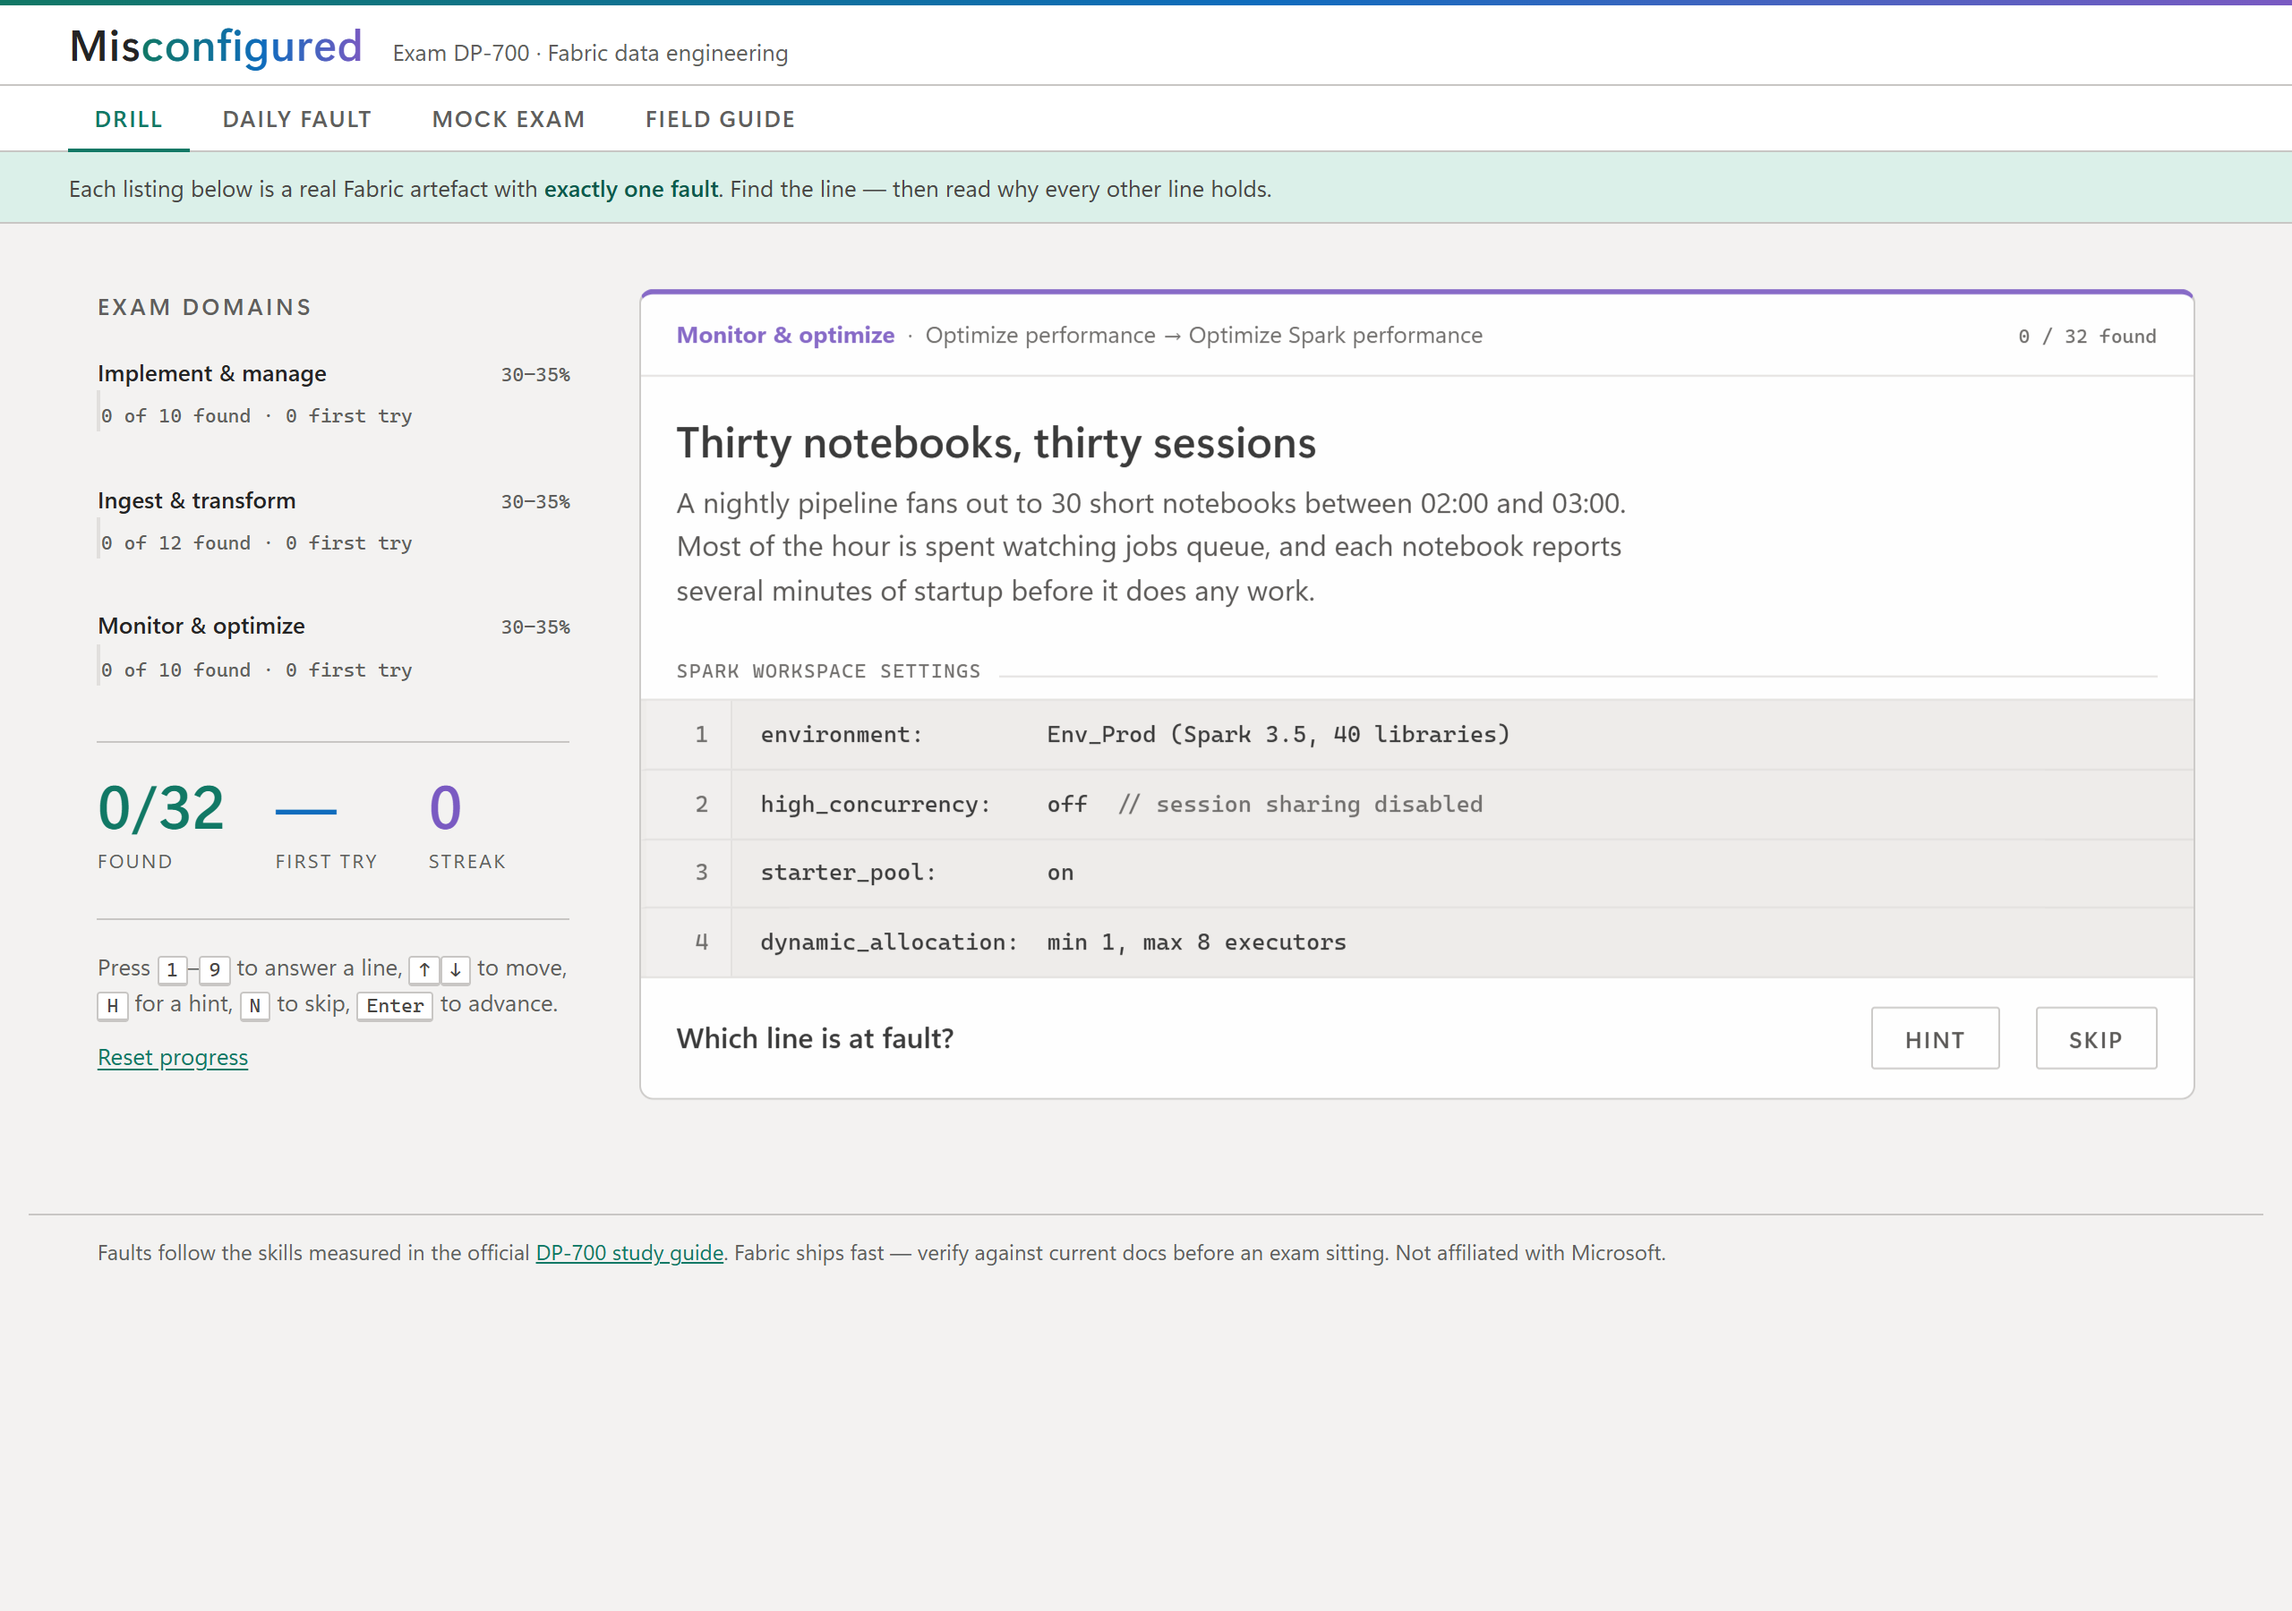
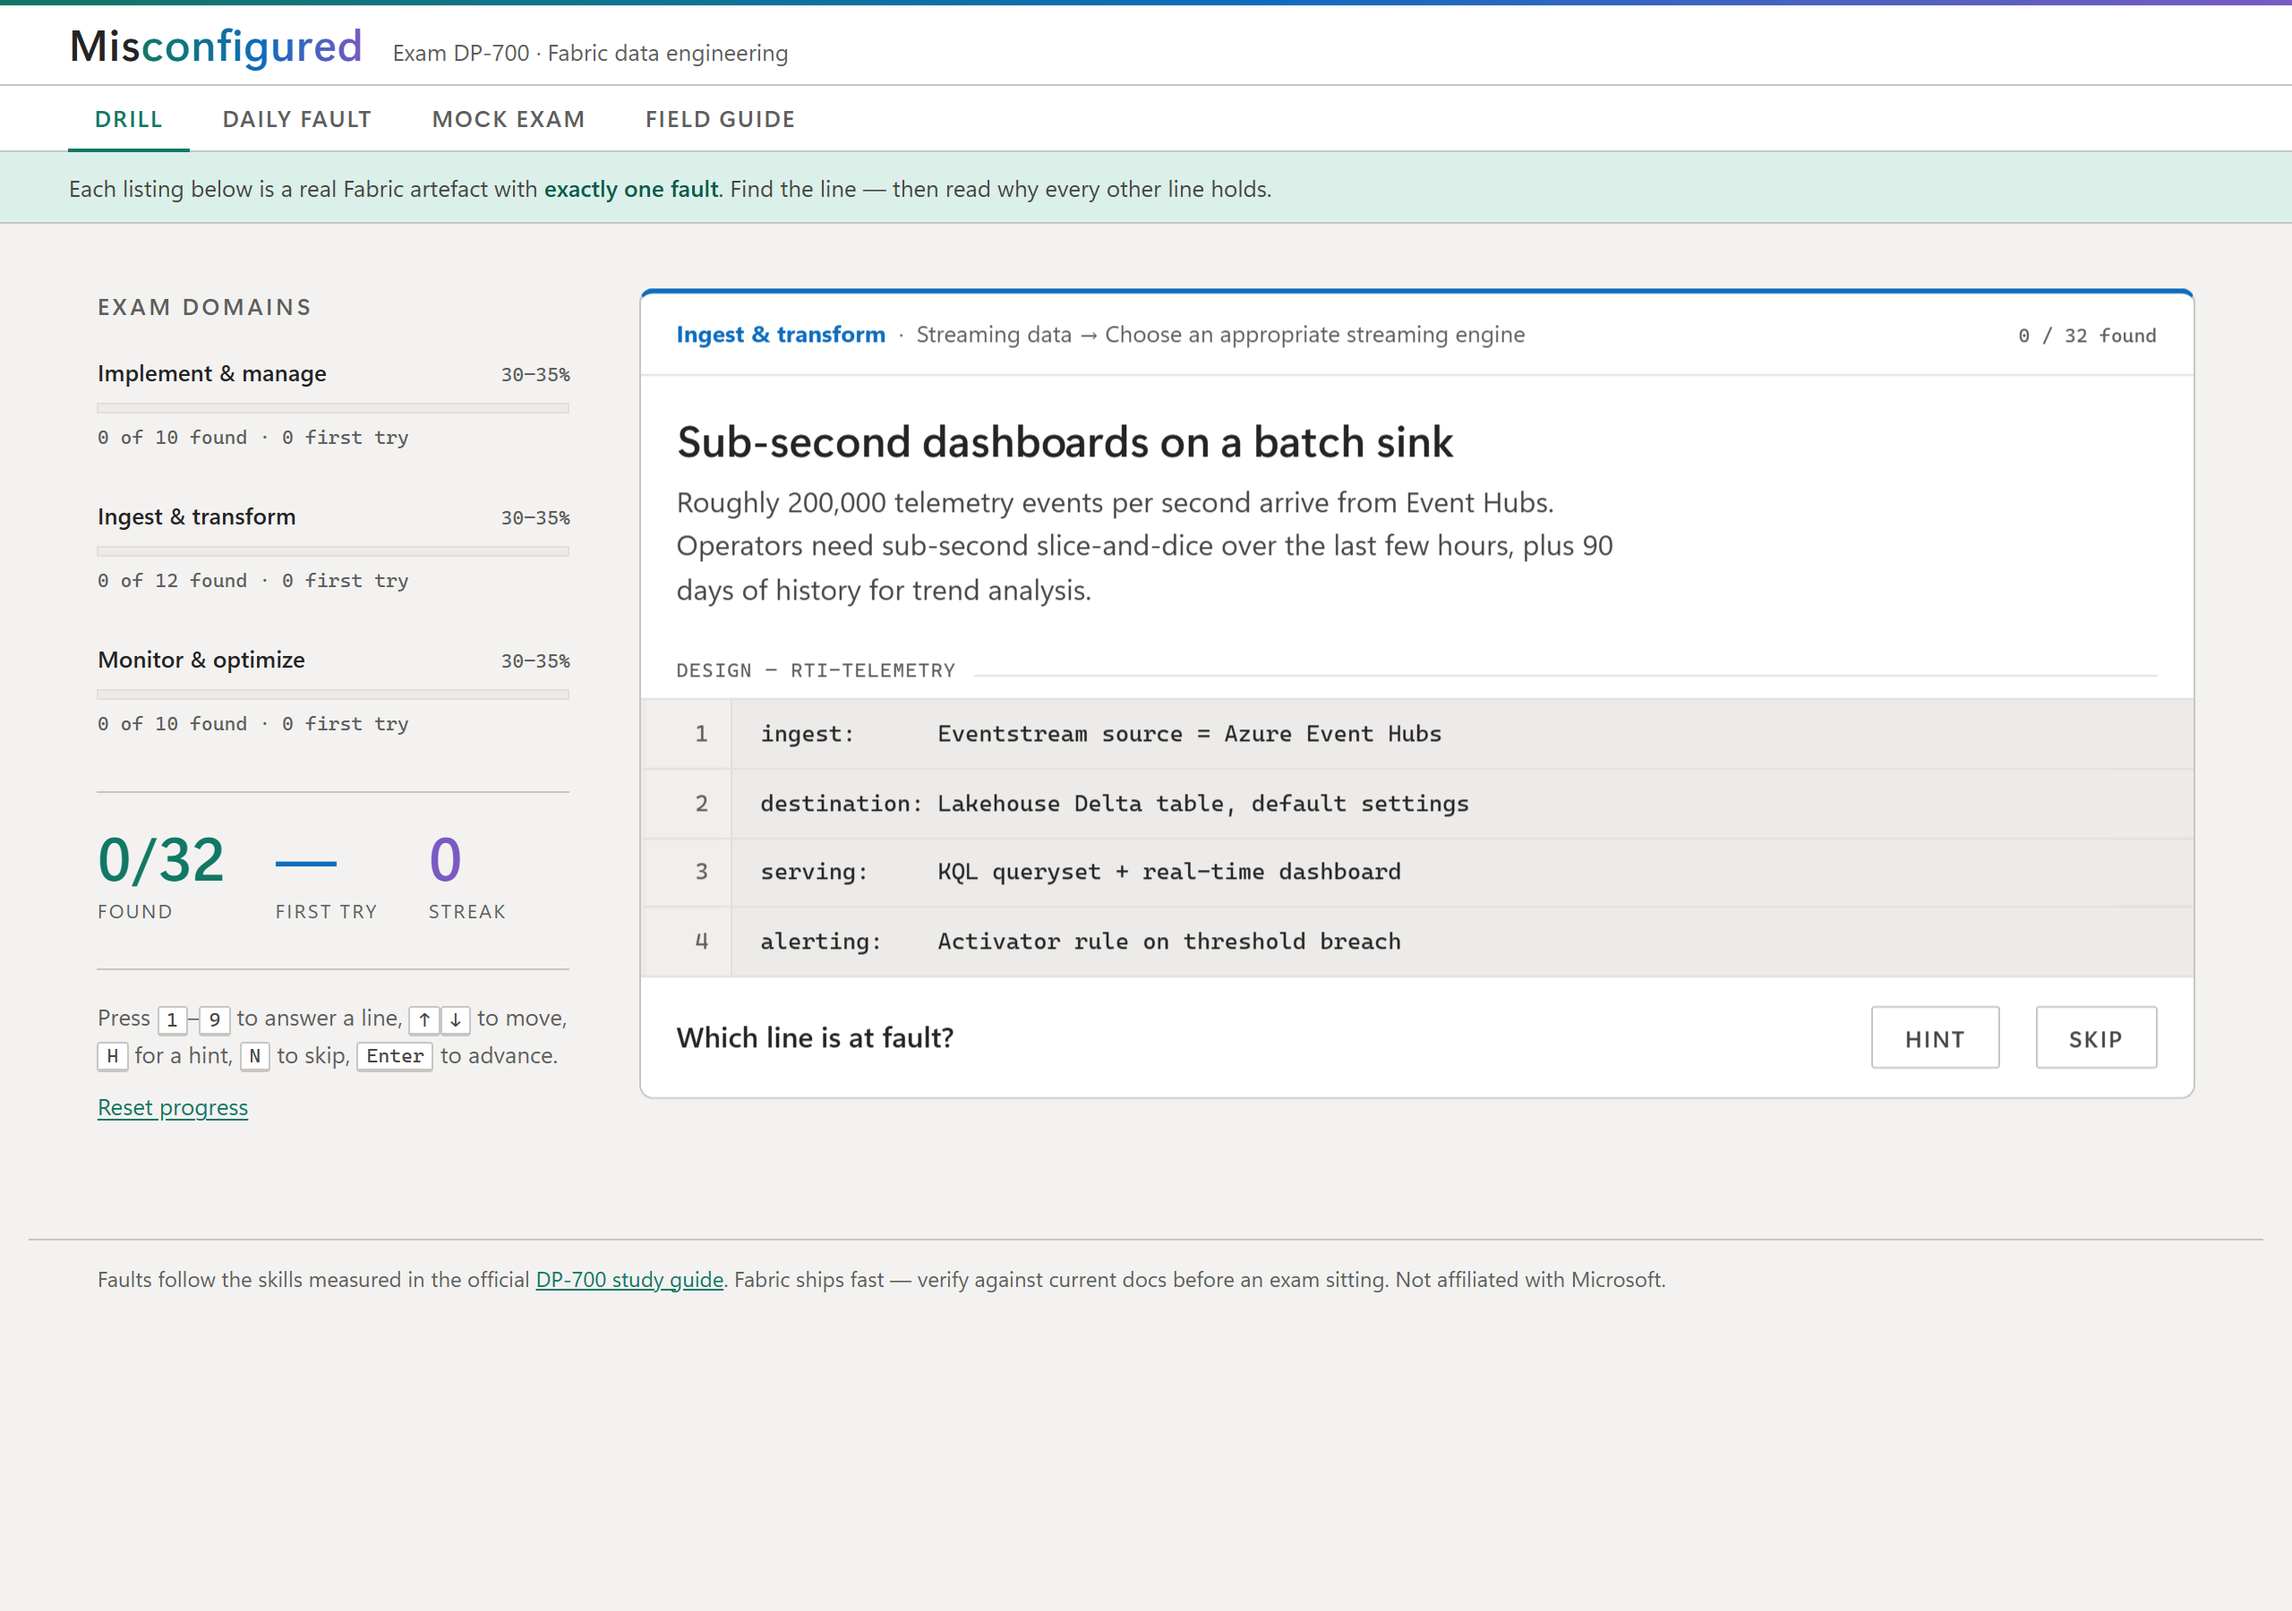
Fix invisible domain meter bars
.meter-track and .meter-count are spans; without display:block the
track's 6px height and the fill's percentage width never applied, so
the progress bars had never rendered. Screenshots regenerated.

diff --git a/index.html b/index.html
@@ -211,10 +211,10 @@
   .meter-head { display: flex; align-items: baseline; gap: 0.5rem; }
   .meter-name { font-size: var(--s-1); font-weight: 600; flex: 1; }
   .meter-weight { font-family: var(--mono); font-size: 0.6875rem; color: var(--ink-soft); font-variant-numeric: tabular-nums; }
-  .meter-track { height: 6px; background: var(--surface-sunk); margin-top: 0.4rem; border: 1px solid var(--rule-soft); position: relative; overflow: hidden; }
+  .meter-track { display: block; height: 6px; background: var(--surface-sunk); margin-top: 0.4rem; border: 1px solid var(--rule-soft); position: relative; overflow: hidden; }
   .meter-fill { position: absolute; inset: 0 auto 0 0; width: 0; background: var(--dm, var(--accent)); transition: width 420ms cubic-bezier(.2,.7,.3,1); }
   .meter-first { position: absolute; inset: 0 auto 0 0; width: 0; background: var(--dm-deep, var(--accent-deep)); opacity: 0.55; transition: width 420ms cubic-bezier(.2,.7,.3,1); }
-  .meter-count { font-family: var(--mono); font-size: 0.6875rem; color: var(--ink-soft); margin-top: 0.3rem; font-variant-numeric: tabular-nums; }
+  .meter-count { display: block; font-family: var(--mono); font-size: 0.6875rem; color: var(--ink-soft); margin-top: 0.3rem; font-variant-numeric: tabular-nums; }
   .meter[aria-pressed="true"] .meter-name { color: var(--dm, var(--accent)); }
   .meter[aria-pressed="true"] .meter-track { border-color: var(--dm, var(--accent)); }
   .meter:focus-visible { outline: 2px solid var(--accent); outline-offset: 3px; }
